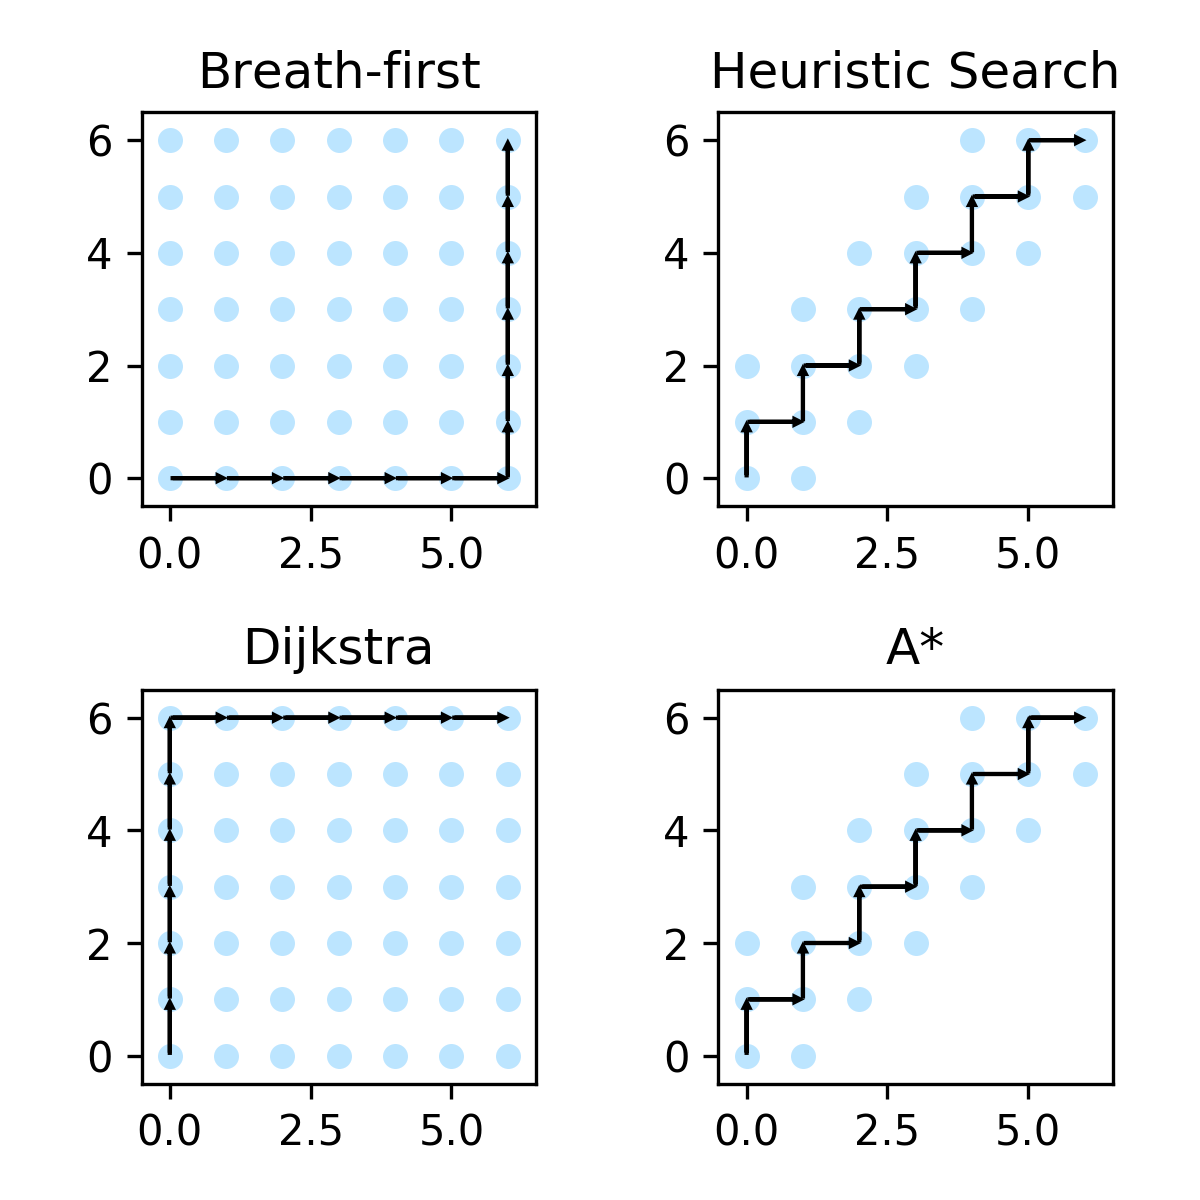
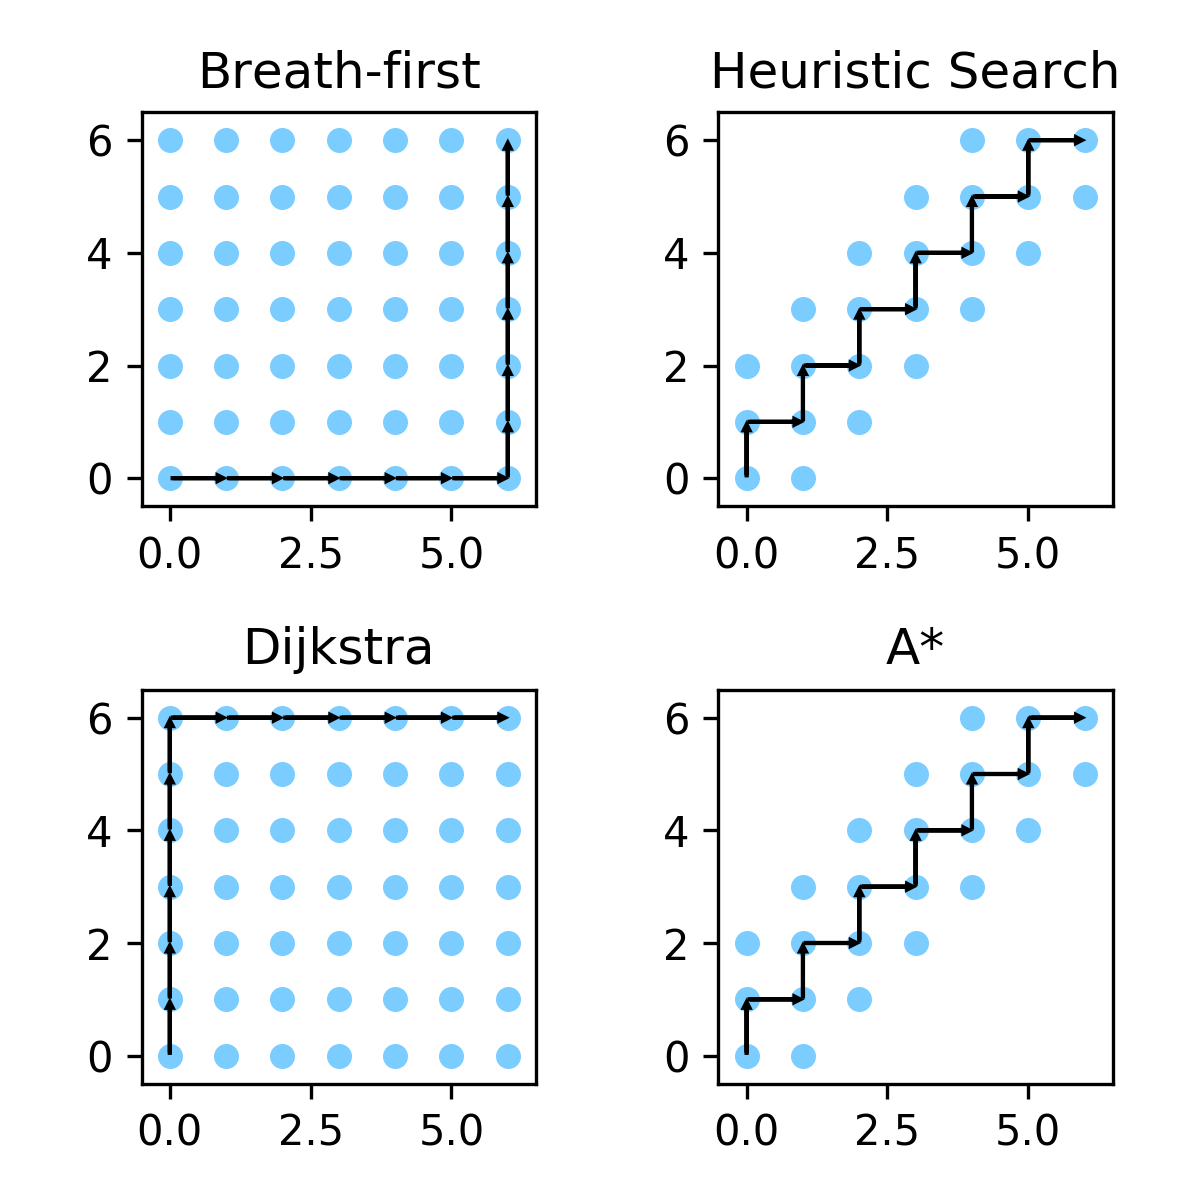
update README

diff --git a/graph_search/analysis.py b/graph_search/analysis.py
@@ -42,10 +42,6 @@ def bfs(graph: nx.Graph, start, goal=None):
                 return list(backtrack(visited, start, goal))[::-1]
 
 
-def heuristic(a, b):
-    return np.linalg.norm(np.array(a) - np.array(b), ord=2) * 5
-
-
 from heapq import heapify, heappush, heappop
 
 
@@ -61,6 +57,10 @@ class PriorityQue:
 
     def __len__(self):
         return len(self.queue)
+
+
+def heuristic(a, b):
+    return np.linalg.norm(np.array(a) - np.array(b), ord=2) * 5
 
 
 def heuristic_search(graph: nx.Graph, start, goal):
@@ -156,7 +156,7 @@ if __name__ == '__main__':
     plt.subplot(2, 2, 1)
     plt.title('Breath-first')
     plot_trajectory_2d(path, label="bfs")
-    plt.scatter(*zip(*queries.keys()), color="#23aaff", linewidths=0, alpha=0.3)
+    plt.scatter(*zip(*queries.keys()), color="#23aaff", linewidths=0, alpha=0.6)
 
     queries.clear()
     path = heuristic_search(G, start, goal)
@@ -164,7 +164,7 @@ if __name__ == '__main__':
     plt.subplot(2, 2, 2)
     plt.title('Heuristic Search')
     plot_trajectory_2d(path, label="heuristics")
-    plt.scatter(*zip(*queries.keys()), color="#23aaff", linewidths=0, alpha=0.3)
+    plt.scatter(*zip(*queries.keys()), color="#23aaff", linewidths=0, alpha=0.6)
 
     G = nx.grid_graph(dim=[n, n])
     G.add_edge((0, 0), (0, 1), weight=1)
@@ -178,7 +178,7 @@ if __name__ == '__main__':
     plt.subplot(2, 2, 3)
     plt.title('Dijkstra')
     plot_trajectory_2d(path, label="dijkstra")
-    plt.scatter(*zip(*queries.keys()), color="#23aaff", linewidths=0, alpha=0.3)
+    plt.scatter(*zip(*queries.keys()), color="#23aaff", linewidths=0, alpha=0.6)
 
     queries.clear()
     path = a_star(G, start, goal)
@@ -186,7 +186,7 @@ if __name__ == '__main__':
     plt.subplot(2, 2, 4)
     plt.title('A*')
     plot_trajectory_2d(path, label="A*")
-    plt.scatter(*zip(*queries.keys()), color="#23aaff", linewidths=0, alpha=0.3)
+    plt.scatter(*zip(*queries.keys()), color="#23aaff", linewidths=0, alpha=0.6)
 
     plt.legend(loc="upper left", bbox_to_anchor=(0.45, 0.8), framealpha=1, frameon=False, fontsize=12)
     from ml_logger import logger

diff --git a/README.md b/README.md
@@ -21,6 +21,18 @@ This is reflected in the implementation in [./graph_search](./graph_search/__ini
         src="figures/comparison.png"/>
 </p>
 
+## Prioritized Search
+
+A planning heuristic helps reduce the planning expenditure. The left column are breath-first-search and dijkstra, both do not use a planning heuristic. On the right are heuristic search and A*.
+
+The <span color="#23aaff">blue</span> colored dots represent the nodes the search algorithm has "touched". Heuristics help reduce the cost during planning.
+
+<p align="center">
+   <img width="300px" height="300px"
+        alt="bfs,heuristic,dijkstra and a* algorithms" 
+        src="figures/search_range.png"/>
+</p>
+
 ## Graph Interface
 
 We need three methods:
